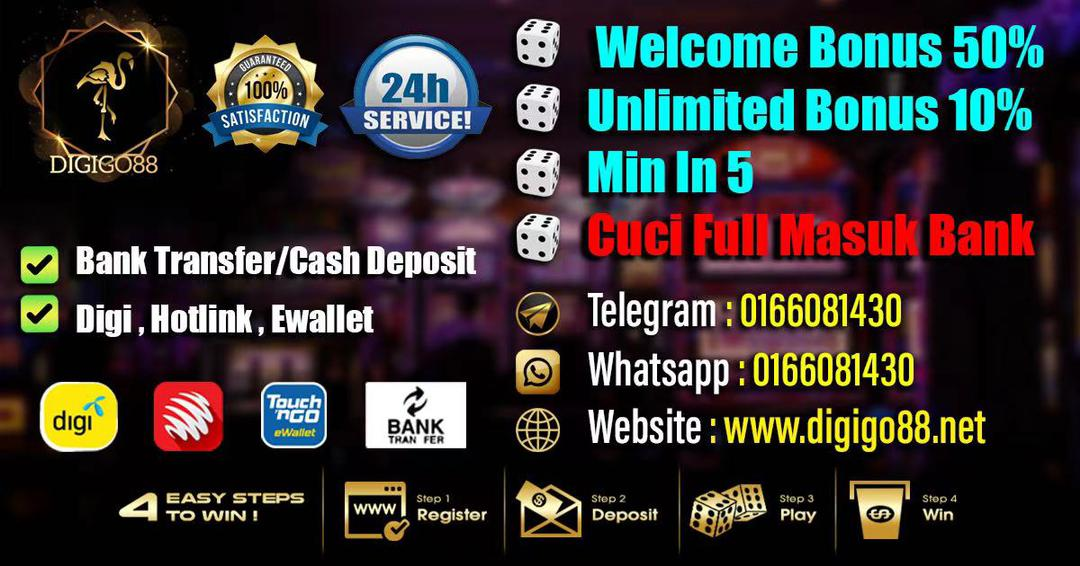
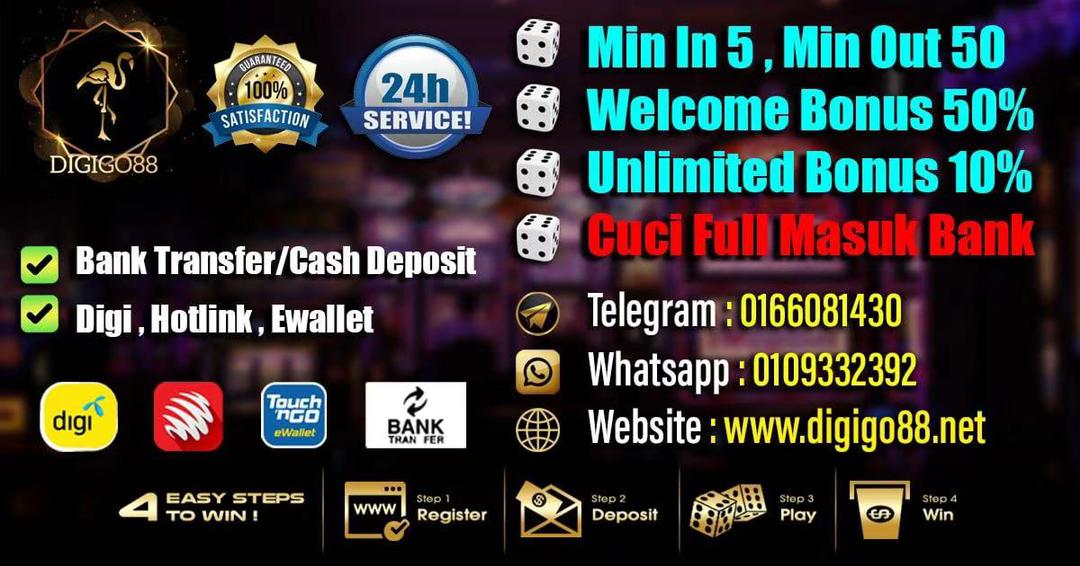
update Whatsapp Number

diff --git a/src/page/Contact/Contact.js b/src/page/Contact/Contact.js
@@ -44,7 +44,7 @@ const Contact = ({ t }) => {
                 <FaWhatsapp className="contact-icon" />
                 <span>Whatsapp</span>
               </div>
-              <div className="contact-details">{window.phone}</div>
+              <div className="contact-details">{window.whatsappNum}</div>
             </div>
             <div className="contact-col" onClick={telegramLink}>
               <div className="contact-title">

diff --git a/public/index.html b/public/index.html
@@ -40,9 +40,10 @@
   </head>
   <script>
     var compName = 'DigiGo88';
-    var whatsapp = 'https://wa.link/e99wim';
+    var whatsapp = 'https://wa.link/ccgoki';
     var telegram = 'https://t.me/digigo88';
     var phone = '+60166081430'
+    var whatsappNum = '010 9332392'
   </script>
   <body>
     <div id="root"></div>

diff --git a/src/components/Footer/Footer.js b/src/components/Footer/Footer.js
@@ -18,7 +18,7 @@ const Footer = () => {
     { id: 5, url: "/contact", name: "contact" },
   ]);
   const [contact] = useState([
-    { id: 1, method: "Whatsapp", phoneNo: "016-608 1430" },
+    { id: 1, method: "Whatsapp", phoneNo: window.whatsappNum },
     { id: 2, method: "Telegram", phoneNo: "Digigo88" },
   ]);
 
